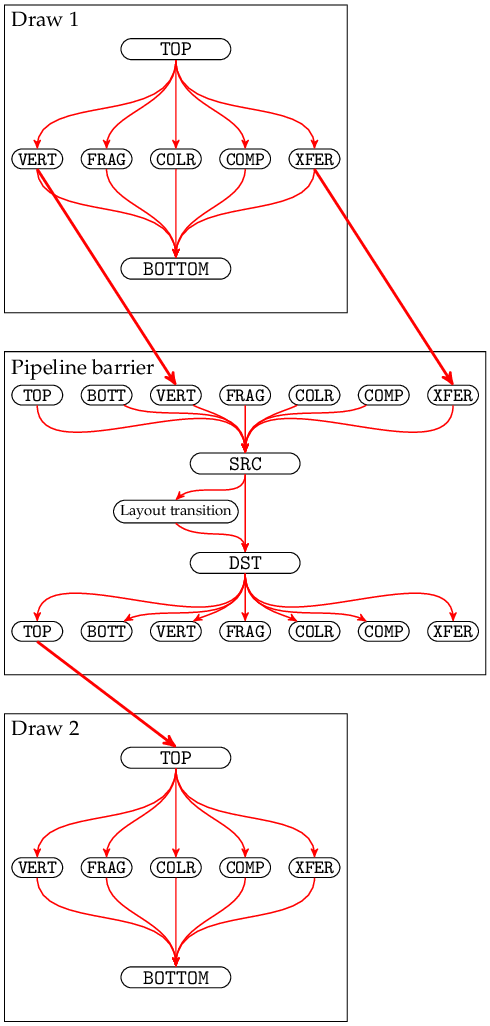
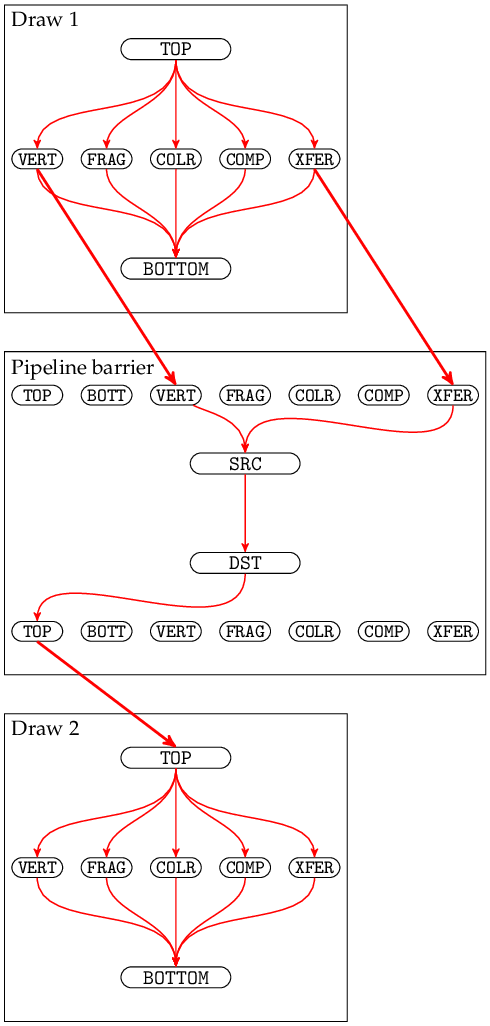
Fix action/barrier diagram

diff --git a/images/deps-common.tex b/images/deps-common.tex
@@ -128,3 +128,37 @@ barrierport/.style={
 \end{scope}
 %
 }}
+%
+\tikzset{barrier-vsxf-top/.pic={
+%
+\node [pipestageinner] (src-top) {TOP};
+\node [pipestageinner,right=of src-top] (src-bottom) {BOTT};
+\node [pipestageinner,right=of src-bottom] (src-vs) {VERT};
+\node [pipestageinner,right=of src-vs] (src-fs) {FRAG};
+\node [pipestageinner,right=of src-fs] (src-ca) {COLR};
+\node [pipestageinner,right=of src-ca] (src-comp) {COMP};
+\node [pipestageinner,right=of src-comp] (src-xfer) {XFER};
+\node [pipestageinner,yshift=-4cm] (dst-top) {TOP};
+\node [pipestageinner,right=of dst-top] (dst-bottom) {BOTT};
+\node [pipestageinner,right=of dst-bottom] (dst-vs) {VERT};
+\node [pipestageinner,right=of dst-vs] (dst-fs) {FRAG};
+\node [pipestageinner,right=of dst-fs] (dst-ca) {COLR};
+\node [pipestageinner,right=of dst-ca] (dst-comp) {COMP};
+\node [pipestageinner,right=of dst-comp] (dst-xfer) {XFER};
+%
+\node [pipestage,node distance=8mm,below=of src-fs] (src) {SRC};
+\node [pipestage,node distance=8mm,above=of dst-fs] (dst) {DST};
+%
+\draw (src.north)
+    edge [<-,pipedep,in=330,out=90] (src-vs)
+    edge [<-,pipedep,in=270,out=90] (src-xfer);
+\draw (dst.south)
+    edge [->,pipedep,in=90,out=270] (dst-top);
+\draw [->,pipedep] (src.south) -- (dst.north);
+%
+\begin{scope}[on background layer]
+\node (bg) [draw,fit=(src-top) (dst-xfer),inner ysep=16pt] {};
+\node [anchor=north west] at (bg.north west) {#1};
+\end{scope}
+%
+}}

diff --git a/images/action-barrier-action.tex b/images/action-barrier-action.tex
@@ -4,7 +4,7 @@
 \begin{tikzpicture}
 
 \pic[] (draw1-) {action=Draw 1};
-\pic[yshift=-4cm] (barrier1-) {barrier=Pipeline barrier};
+\pic[yshift=-4cm] (barrier1-) {barrier-vsxf-top=Pipeline barrier};
 \pic[yshift=-12cm] (draw2-) {action=Draw 2};
 
 \draw [->,pipedep2] (draw1-vs.south) -- (barrier1-src-vs.north);
